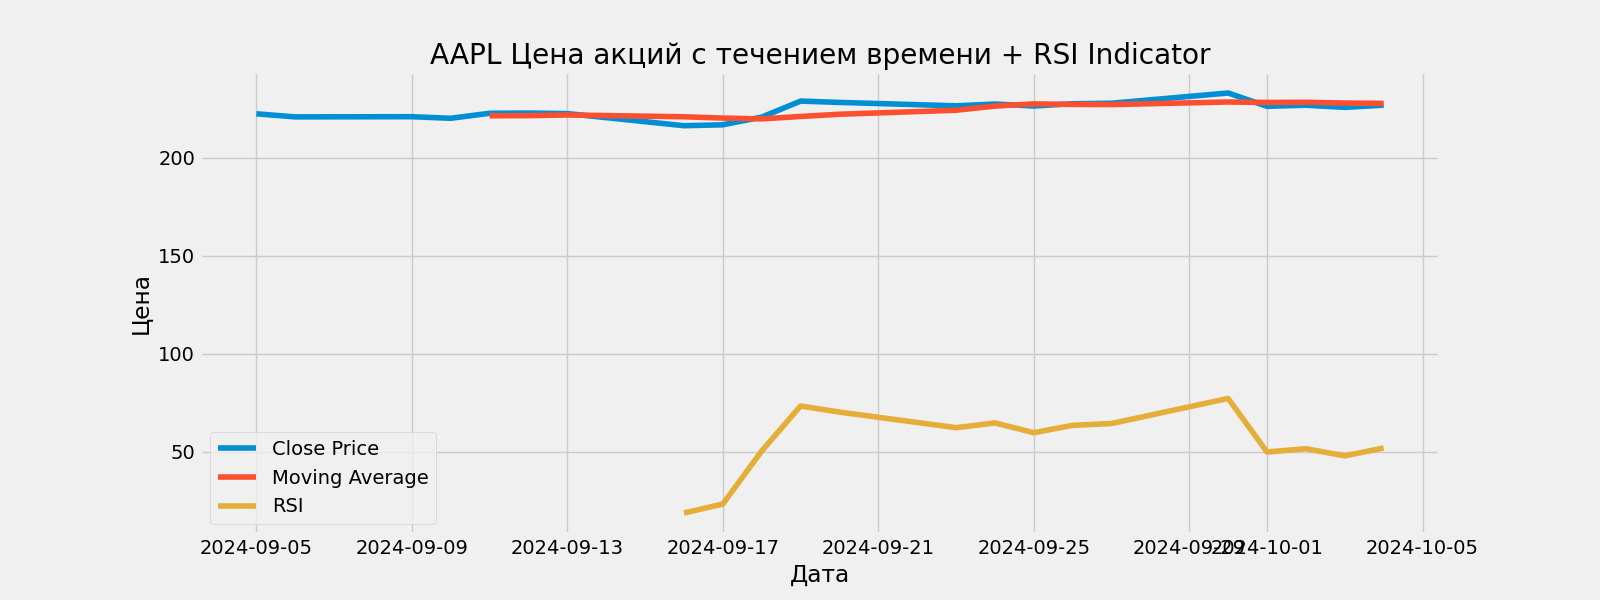
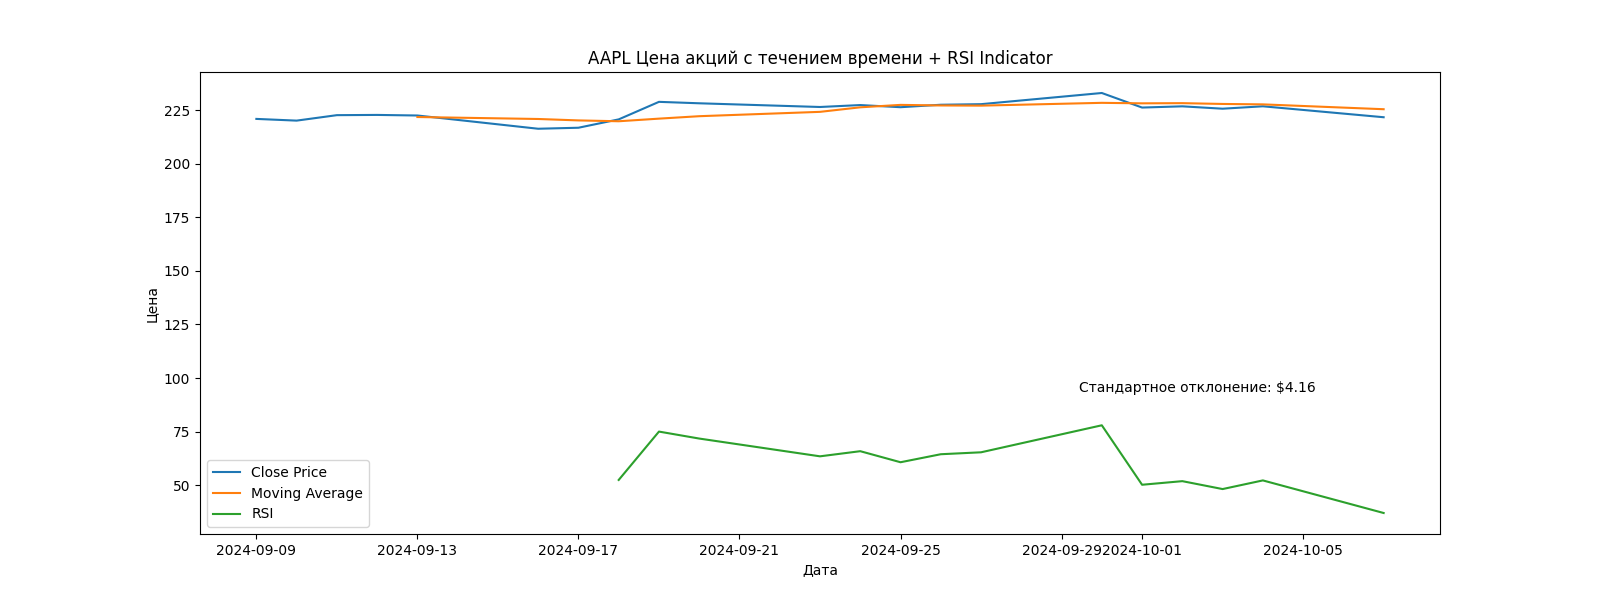
Цель: Реализовать функцию для расчёта и отображения дополнительных статистических индикаторов, например, стандартного отклонения цены закрытия.
Реализация:
Добавить соответствующие расчёты в модуль обработки данных и обновить визуализацию для отображения этих индикаторов.

diff --git a/data_plotting.py b/data_plotting.py
@@ -25,6 +25,8 @@ def create_and_save_plot(data, ticker, period, style="fivethirtyeight", filename
             plt.plot(dates, data['Moving_Average'].values, label='Moving Average')
             rsi_series = data_download.rsifunc(data)
             plt.plot(rsi_series, label='RSI')
+            # Вычисление стандартного отклонения
+            std_close = data_download.calculate_std(data)
         else:
             print("Информация о дате отсутствует или не имеет распознаваемого формата.")
             return
@@ -35,12 +37,15 @@ def create_and_save_plot(data, ticker, period, style="fivethirtyeight", filename
         plt.plot(data['Date'], data['Moving_Average'], label='Moving Average')
         rsi_series = data_download.rsifunc(data)
         plt.plot(rsi_series, label='RSI')
+        # Вычисление стандартного отклонения
+        std_close = data_download.calculate_std(data)
 
     plt.title(f"{ticker} Цена акций с течением времени + RSI Indicator")
     plt.xlabel("Дата")
     plt.ylabel("Цена")
+    # Добавление информации о стандартном отклонении под графиком
+    plt.text(0.9, 0.3, f'Стандартное отклонение: ${std_close:.2f}', ha='right', va='bottom', transform=plt.gca().transAxes)
     plt.legend()
-
 
     if filename is None:
         filename = f"{ticker}_{period}_stock_price_chart.png"

diff --git a/data_download.py b/data_download.py
@@ -43,3 +43,11 @@ def rsifunc(data, periods=7):
     return rsi
 
 
+
+# Функция для расчета стандартного отклонения
+def calculate_std(data):
+    '''
+    :param data: DataFrame
+    :return: расчет стандартного отклонения
+    '''
+    return data['Close'].std()
